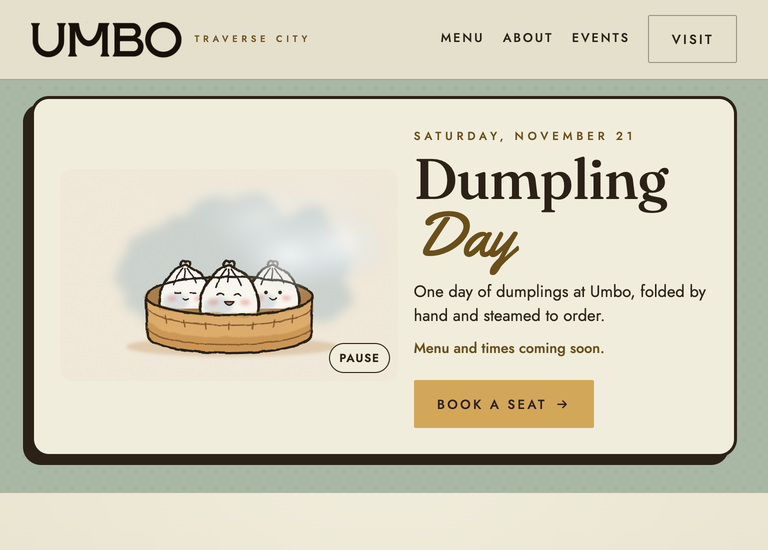
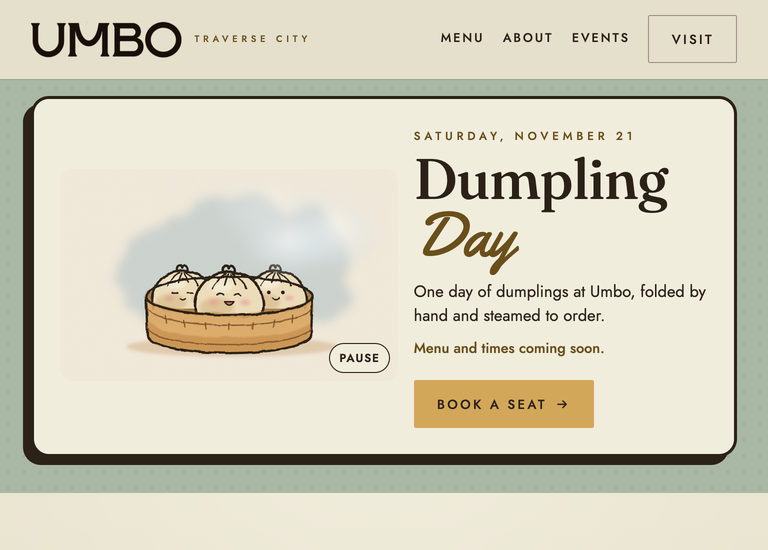
fix: make the dumpling day buns rounder and flour colored
Wider, rounder bun bodies with a softer top, an opaque warm flour fill,
warm shading and a top highlight instead of the white, blue-shaded look.
Mist now starts higher so it drifts over the buns less.

Changed region(s): [[0.1875, 0.4636, 0.4062, 0.5873]]

diff --git a/index.html b/index.html
@@ -102,25 +102,27 @@
           <ellipse class="dd-w-inside-lo" cx="240" cy="184" rx="96" ry="18"/>
         </g>
 
-        <g class="dd-bao" transform="translate(178 198)">
-          <path class="dd-bao-fill" d="M-36 0C-42-26-24-54-4-60Q0-63 4-60C24-54 42-26 36 0Z"/>
-          <ellipse class="dd-bao-shade" filter="url(#dd-soft)" cx="-14" cy="-10" rx="18" ry="12"/>
+        <g class="dd-bao" transform="translate(174 198)">
+          <path class="dd-bao-fill" d="M-42 0C-48-24-34-50-6-53Q0-55 6-53C34-50 48-24 42 0Z"/>
+          <ellipse class="dd-bao-shade" filter="url(#dd-soft)" cx="-16" cy="-9" rx="22" ry="12"/>
+          <ellipse class="dd-bao-hi" filter="url(#dd-soft)" cx="-10" cy="-36" rx="15" ry="8"/>
           <g class="dd-inkline" filter="url(#dd-ink)">
-            <path d="M-36 0C-42-26-24-54-4-60Q0-63 4-60C24-54 42-26 36 0"/>
-            <path d="M-6-59C-9-67-2-71 0-65C2-71 9-67 6-59"/>
-            <path class="dd-thin" d="M-3-57Q-13-47-17-34M0-57Q-1-49-2-41M3-57Q11-48 15-36"/>
+            <path d="M-42 0C-48-24-34-50-6-53Q0-55 6-53C34-50 48-24 42 0"/>
+            <path d="M-7-52C-10-60-2-64 0-58C2-64 10-60 7-52"/>
+            <path class="dd-thin" d="M-4-51Q-16-44-22-33M-1-51Q-4-44-6-37M2-51Q6-44 8-37M5-51Q16-44 22-33"/>
             <path class="dd-thin" d="M-15-22H-7M7-22H15M-4-14Q0-11 4-14"/>
           </g>
           <ellipse class="dd-blush" filter="url(#dd-soft)" cx="-19" cy="-14" rx="6" ry="3.4"/>
           <ellipse class="dd-blush" filter="url(#dd-soft)" cx="19" cy="-14" rx="6" ry="3.4"/>
         </g>
-        <g class="dd-bao" transform="translate(302 198)">
-          <path class="dd-bao-fill" d="M-36 0C-42-26-24-54-4-60Q0-63 4-60C24-54 42-26 36 0Z"/>
-          <ellipse class="dd-bao-shade" filter="url(#dd-soft)" cx="-14" cy="-10" rx="18" ry="12"/>
+        <g class="dd-bao" transform="translate(306 198)">
+          <path class="dd-bao-fill" d="M-42 0C-48-24-34-50-6-53Q0-55 6-53C34-50 48-24 42 0Z"/>
+          <ellipse class="dd-bao-shade" filter="url(#dd-soft)" cx="-16" cy="-9" rx="22" ry="12"/>
+          <ellipse class="dd-bao-hi" filter="url(#dd-soft)" cx="-10" cy="-36" rx="15" ry="8"/>
           <g class="dd-inkline" filter="url(#dd-ink)">
-            <path d="M-36 0C-42-26-24-54-4-60Q0-63 4-60C24-54 42-26 36 0"/>
-            <path d="M-6-59C-9-67-2-71 0-65C2-71 9-67 6-59"/>
-            <path class="dd-thin" d="M-3-57Q-13-47-17-34M0-57Q-1-49-2-41M3-57Q11-48 15-36"/>
+            <path d="M-42 0C-48-24-34-50-6-53Q0-55 6-53C34-50 48-24 42 0"/>
+            <path d="M-7-52C-10-60-2-64 0-58C2-64 10-60 7-52"/>
+            <path class="dd-thin" d="M-4-51Q-16-44-22-33M-1-51Q-4-44-6-37M2-51Q6-44 8-37M5-51Q16-44 22-33"/>
             <path class="dd-thin" d="M-5-15Q0-10 5-15"/>
           </g>
           <circle class="dd-eye" cx="-10" cy="-23" r="2.6"/><circle class="dd-eye" cx="10" cy="-23" r="2.6"/>
@@ -128,12 +130,13 @@
           <ellipse class="dd-blush" filter="url(#dd-soft)" cx="19" cy="-15" rx="6" ry="3.4"/>
         </g>
         <g class="dd-bao" transform="translate(240 206) scale(1.12)">
-          <path class="dd-bao-fill" d="M-36 0C-42-26-24-54-4-60Q0-63 4-60C24-54 42-26 36 0Z"/>
-          <ellipse class="dd-bao-shade" filter="url(#dd-soft)" cx="-14" cy="-10" rx="18" ry="12"/>
+          <path class="dd-bao-fill" d="M-42 0C-48-24-34-50-6-53Q0-55 6-53C34-50 48-24 42 0Z"/>
+          <ellipse class="dd-bao-shade" filter="url(#dd-soft)" cx="-16" cy="-9" rx="22" ry="12"/>
+          <ellipse class="dd-bao-hi" filter="url(#dd-soft)" cx="-10" cy="-36" rx="15" ry="8"/>
           <g class="dd-inkline" filter="url(#dd-ink)">
-            <path d="M-36 0C-42-26-24-54-4-60Q0-63 4-60C24-54 42-26 36 0"/>
-            <path d="M-6-59C-9-67-2-71 0-65C2-71 9-67 6-59"/>
-            <path class="dd-thin" d="M-3-57Q-13-47-17-34M0-57Q-1-49-2-41M3-57Q11-48 15-36"/>
+            <path d="M-42 0C-48-24-34-50-6-53Q0-55 6-53C34-50 48-24 42 0"/>
+            <path d="M-7-52C-10-60-2-64 0-58C2-64 10-60 7-52"/>
+            <path class="dd-thin" d="M-4-51Q-16-44-22-33M-1-51Q-4-44-6-37M2-51Q6-44 8-37M5-51Q16-44 22-33"/>
             <path class="dd-thin" d="M-15-24Q-11-28-7-24M7-24Q11-28 15-24"/>
           </g>
           <path class="dd-mouth" d="M-6-16Q0-7 6-16Z"/>

diff --git a/assets/css/promo.css b/assets/css/promo.css
@@ -16,8 +16,8 @@
   --dd-ochre-hi: #ECCB92;
   --dd-inside: #A57235;
   --dd-cloud: #A9BEC6;
-  --dd-bao: #FCFAF4;
-  --dd-bao-shade: #C3CFD5;
+  --dd-bao: #F0E0BE;
+  --dd-bao-shade: #C9A46C;
   --dd-blush: #E8968E;
   --dd-ease-in: cubic-bezier(.22, 1, .36, 1);
 }
@@ -69,7 +69,8 @@
 .dd-art .dd-w-wall-lo, .dd-lid .dd-w-lid-lo { fill: var(--dd-ochre-lo); opacity: .45; }
 .dd-art .dd-w-pool, .dd-lid .dd-w-pool { fill: none; stroke: var(--dd-ochre-lo); stroke-width: 5; opacity: .5; }
 .dd-art .dd-bao-fill { fill: var(--dd-bao); }
-.dd-art .dd-bao-shade { fill: var(--dd-bao-shade); opacity: .55; }
+.dd-art .dd-bao-shade { fill: var(--dd-bao-shade); opacity: .4; }
+.dd-art .dd-bao-hi { fill: #FBF2DE; opacity: .8; }
 .dd-art .dd-blush { fill: var(--dd-blush); opacity: .6; }
 .dd-art .dd-eye { fill: var(--dd-ink); }
 .dd-art .dd-mouth { fill: #C8706A; stroke: var(--dd-ink); stroke-width: 1.8; stroke-linejoin: round; }
@@ -80,7 +81,7 @@
 /* Mist: soft gradient blobs, moved by transform and opacity only. Fades out toward the top of the scene. */
 .dd-mist { position: absolute; inset: 0; pointer-events: none; -webkit-mask-image: linear-gradient(transparent 2%, #000 42%); mask-image: linear-gradient(transparent 2%, #000 42%); }
 .dd-mist span {
-  position: absolute; left: var(--x, 50%); top: 40%; width: 40%; aspect-ratio: 1.35; translate: -50% -50%; border-radius: 50%;
+  position: absolute; left: var(--x, 50%); top: 33%; width: 40%; aspect-ratio: 1.35; translate: -50% -50%; border-radius: 50%;
   background: radial-gradient(closest-side, rgba(255, 255, 255, .97), rgba(226, 233, 236, .7) 50%, rgba(214, 224, 229, .25) 78%, rgba(214, 224, 229, 0));
   filter: blur(4px); opacity: 0; will-change: transform, opacity;
 }
